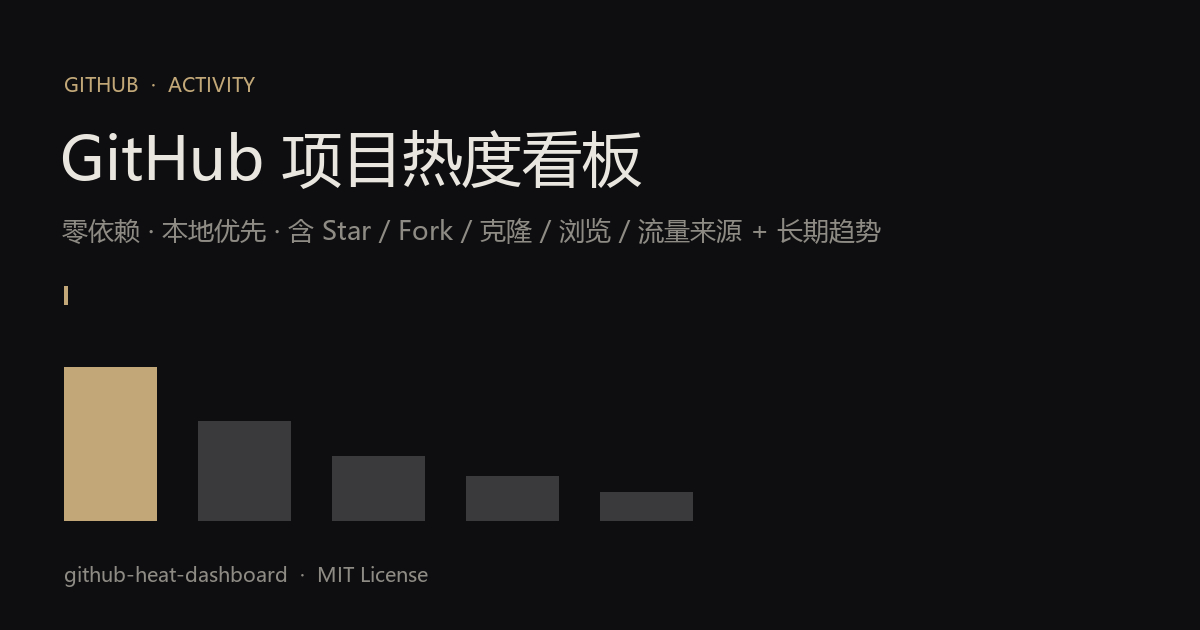
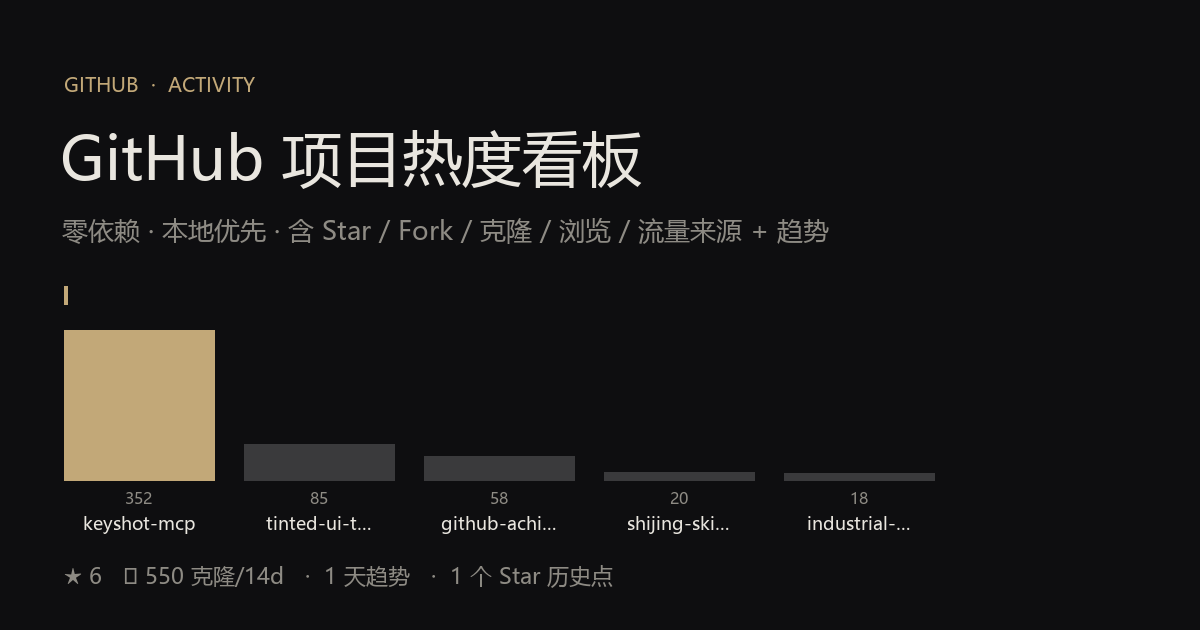
feat: 新增 Star 历史曲线 + 封面改用真实数据
- collect.py: 用 GitHub Stargazers API(star+json) 抓取 starred_at，聚合为逐日累计；
  仅公开仓库抓取，账号级累计曲线内嵌 window.STAR_HISTORY，data.js 同步
- 看板新增「Star 历史（账号累计）」卡片，复用纯 SVG 折线，单色克制风
- gen_preview.py: 读取真实 data.js 渲染封面（真实克隆排行 + 指标摘要），替换示意图

Changed region(s): [[0.0308, 0.5127, 0.7708, 0.8444], [0.0308, 0.8746, 0.5242, 0.9349], [0.6475, 0.3317, 0.74, 0.3921]]

diff --git a/index.template.html b/index.template.html
@@ -6,6 +6,7 @@
 <title>GitHub 项目热度</title>
 <script>/*__DASHBOARD_DATA__*/</script>
 <script>/*__DASHBOARD_HISTORY__*/</script>
+<script>/*__STAR_HISTORY__*/</script>
 <style>
   :root{
     --bg:#0e0e10;
@@ -135,6 +136,15 @@
     </div>
   </div>
 
+  <div class="card" style="margin-bottom:24px;">
+    <h3>Star 历史（账号累计）</h3>
+    <div class="legend">
+      <span><i class="dot" style="background:var(--accent)"></i> 累计 Star</span>
+    </div>
+    <div id="starHistNote" style="color:var(--muted);font-size:12px;margin:4px 0 10px;"></div>
+    <div id="starHistChart"></div>
+  </div>
+
   <div class="card" style="margin-bottom:20px;">
     <h3>仓库明细</h3>
     <table>
@@ -243,6 +253,20 @@ if (!D || !(D.repos || []).length) {
     }
     trendEl.innerHTML = svgLine(clonesPts, '#C2A878', '#262629', '#8E8B84') +
                         svgLine(starsPts, '#3a3a3c', '#262629', '#8E8B84');
+  }
+
+  // --- Star history (account cumulative) ---
+  const sh = window.STAR_HISTORY || {total:[], repos:{}};
+  const shEl = document.getElementById('starHistChart');
+  const shNote = document.getElementById('starHistNote');
+  const totalPts = (sh.total || []).slice().sort((a,b)=> a.date < b.date ? -1 : 1);
+  if (!totalPts.length) {
+    shNote.textContent = '暂无 Star 历史（公开仓库尚未获得 Star，或抓取受限）。';
+  } else {
+    shNote.textContent = '来源 GitHub Stargazers API · starred_at（覆盖仓库整个生命周期，非 14 天窗口）· '
+      + totalPts[0].date + ' ~ ' + totalPts[totalPts.length-1].date;
+    const pts = totalPts.map(p=>({label:p.date.slice(5), v:p.cumulative}));
+    shEl.innerHTML = svgLine(pts, '#C2A878', '#262629', '#8E8B84');
   }
 
   // --- Table ---

diff --git a/collect.py b/collect.py
@@ -28,6 +28,32 @@ def jget(raw):
     except Exception:
         return None
 
+def fetch_star_history(name):
+    """用 GitHub Stargazers API（带 starred_at）还原 Star 逐日累计历史。
+    仅公开仓库可访问，无需额外 token；上限 1000 条防止超大仓库拖慢。"""
+    raw = gh("api", f"repos/{OWNER}/{name}/stargazers",
+             "--header", "Accept: application/vnd.github.star+json", "--paginate")
+    if not raw:
+        return []
+    try:
+        items = json.loads(raw)
+    except Exception:
+        return []
+    if not isinstance(items, list):
+        return []
+    items = items[-1000:]
+    counts = {}
+    for it in items:
+        sa = (it.get("starred_at") or "")[:10]
+        if sa:
+            counts[sa] = counts.get(sa, 0) + 1
+    dates = sorted(counts.keys())
+    out_dates, cum = [], 0
+    for dd in dates:
+        cum += counts[dd]
+        out_dates.append({"date": dd, "cumulative": cum})
+    return out_dates
+
 repos_raw = gh("repo", "list", OWNER, "--limit", "100",
                "--json", "name,stargazerCount,forkCount,description,isPrivate,primaryLanguage,updatedAt,pushedAt,url")
 repos = jget(repos_raw) or []
@@ -62,6 +88,8 @@ for repo in repos:
     pth = jget(gh("api", f"repos/{OWNER}/{name}/traffic/popular/paths"))
     if pth:
         entry["paths"] = [{"path": x["path"], "count": x["count"], "uniques": x["uniques"]} for x in pth[:10]]
+    # Star 历史：仅公开仓库抓取，私有仓库无权限
+    entry["starHistory"] = fetch_star_history(name) if not repo.get("isPrivate") else []
     out.append(entry)
 
 data = {
@@ -102,13 +130,35 @@ with open("history.json", "w", encoding="utf-8") as f:
     json.dump(history, f, ensure_ascii=False, indent=2)
 
 histJs = "window.DASHBOARD_HISTORY = " + json.dumps(history, ensure_ascii=False, indent=2) + ";"
+
+# --- Star 历史（账号级累计）：合并各公开仓库的逐日增量 ---
+repo_daily = {}
+for r in out:
+    prev = 0
+    for pt in (r.get("starHistory") or []):
+        inc = pt["cumulative"] - prev
+        prev = pt["cumulative"]
+        repo_daily[pt["date"]] = repo_daily.get(pt["date"], 0) + inc
+star_total_pts, cum = [], 0
+for dd in sorted(repo_daily.keys()):
+    cum += repo_daily[dd]
+    star_total_pts.append({"date": dd, "cumulative": cum})
+star_history = {
+    "total": star_total_pts,
+    "repos": {r["name"]: (r.get("starHistory") or []) for r in out}
+}
+starJs = "window.STAR_HISTORY = " + json.dumps(star_history, ensure_ascii=False, indent=2) + ";"
+
 with open("data.js", "w", encoding="utf-8") as f:
-    f.write(js + "\n" + histJs)
+    f.write(js + "\n" + histJs + "\n" + starJs)
 
 # 内嵌数据 + 历史到 index.html，生成不依赖外部 data.js 的单文件看板
 with open("index.template.html", "r", encoding="utf-8") as f:
     tpl = f.read()
-html = tpl.replace("/*__DASHBOARD_DATA__*/", js).replace("/*__DASHBOARD_HISTORY__*/", histJs)
+html = (tpl.replace("/*__DASHBOARD_DATA__*/", js)
+            .replace("/*__DASHBOARD_HISTORY__*/", histJs)
+            .replace("/*__STAR_HISTORY__*/", starJs))
 with open("index.html", "w", encoding="utf-8") as f:
     f.write(html)
-print("collected", len(out), "repos -> index.html (self-contained) + history.json points:", len(history))
+print("collected", len(out), "repos -> index.html (self-contained) + history.json points:", len(history),
+      "| star-history points:", len(star_total_pts))

diff --git a/gen_preview.py b/gen_preview.py
@@ -1,5 +1,5 @@
 from PIL import Image, ImageDraw, ImageFont
-import os
+import os, json, re
 
 W, H = 1200, 630
 bg     = (14, 14, 16)
@@ -15,31 +15,55 @@ def font(sz):
     except Exception:
         return ImageFont.load_default()
 
+# --- 读取真实数据（data.js 是 JSON 而非 Python，用 raw_decode 精确提取） ---
+src = open("data.js", "r", encoding="utf-8").read()
+_dec = json.JSONDecoder()
+def grab(name):
+    i = src.index("window." + name + " = ") + len("window." + name + " = ")
+    obj, _ = _dec.raw_decode(src, i)
+    return obj
+
+D = grab("DASHBOARD_DATA")
+Hhist = grab("DASHBOARD_HISTORY")
+S = grab("STAR_HISTORY")
+
+repos = [r for r in D["repos"] if not r.get("private")]
+repos.sort(key=lambda r: -(r.get("clones") or 0))
+totalStars = sum((r.get("stars") or 0) for r in D["repos"])
+totalClones = sum((r.get("clones") or 0) for r in D["repos"])
+histDays = len(Hhist)
+starPts = len(S.get("total", []))
+
 img = Image.new("RGB", (W, H), bg)
 d = ImageDraw.Draw(img)
 
-# eyebrow
+# eyebrow + title
 d.text((64, 70), "GITHUB  ·  ACTIVITY", font=font(20), fill=accent)
-# title
 d.text((60, 116), "GitHub 项目热度看板", font=font(60), fill=text)
-# subtitle
-d.text((62, 212), "零依赖 · 本地优先 · 含 Star / Fork / 克隆 / 浏览 / 流量来源 + 长期趋势",
+d.text((62, 212), "零依赖 · 本地优先 · 含 Star / Fork / 克隆 / 浏览 / 流量来源 + 趋势",
        font=font(26), fill=muted)
-
-# decorative accent tick under title
 d.rectangle([64, 286, 67, 304], fill=accent)
 
-# mini bar chart (clone ranking示意)
-bars = [0.96, 0.62, 0.40, 0.28, 0.18]
-bx, by, bw, bgap, bh_max = 64, 360, 92, 42, 160
-for i, v in enumerate(bars):
+# 真实克隆排行（Top 5 公开仓库）
+top = repos[:5]
+bx, by, bw, bgap, bh_max = 64, 330, 150, 30, 150
+maxc = max(1, *[r.get("clones") or 0 for r in top])
+for i, r in enumerate(top):
+    v = r.get("clones") or 0
+    h = int(bh_max * (v / maxc))
     x = bx + i * (bw + bgap)
-    h = int(bh_max * v)
     col = accent if i == 0 else bar
     d.rectangle([x, by + bh_max - h, x + bw, by + bh_max], fill=col)
+    nm = r["name"]
+    if len(nm) > 12:
+        nm = nm[:11] + "…"
+    d.text((x + bw // 2, by + bh_max + 18), str(v), font=font(16), fill=muted, anchor="mm")
+    d.text((x + bw // 2, by + bh_max + 42), nm, font=font(18), fill=text, anchor="mm")
 
-# footer line
-d.text((64, 560), "github-heat-dashboard  ·  MIT License", font=font(20), fill=muted)
+# footer summary（真实指标）
+summary = f"\u2605 {totalStars}   \u2b07 {totalClones} \u514b\u9686/14d   \u00b7  {histDays} \u5929\u8d8b\u52bf   \u00b7  {starPts} \u4e2a Star \u5386\u53f2\u70b9"
+d.text((64, 560), summary, font=font(22), fill=muted)
 
 img.save("preview.png")
-print("preview.png saved:", os.path.getsize("preview.png"), "bytes")
+print("preview.png saved:", os.path.getsize("preview.png"), "bytes | stars:", totalStars,
+      "clones:", totalClones, "histDays:", histDays, "starPts:", starPts)
